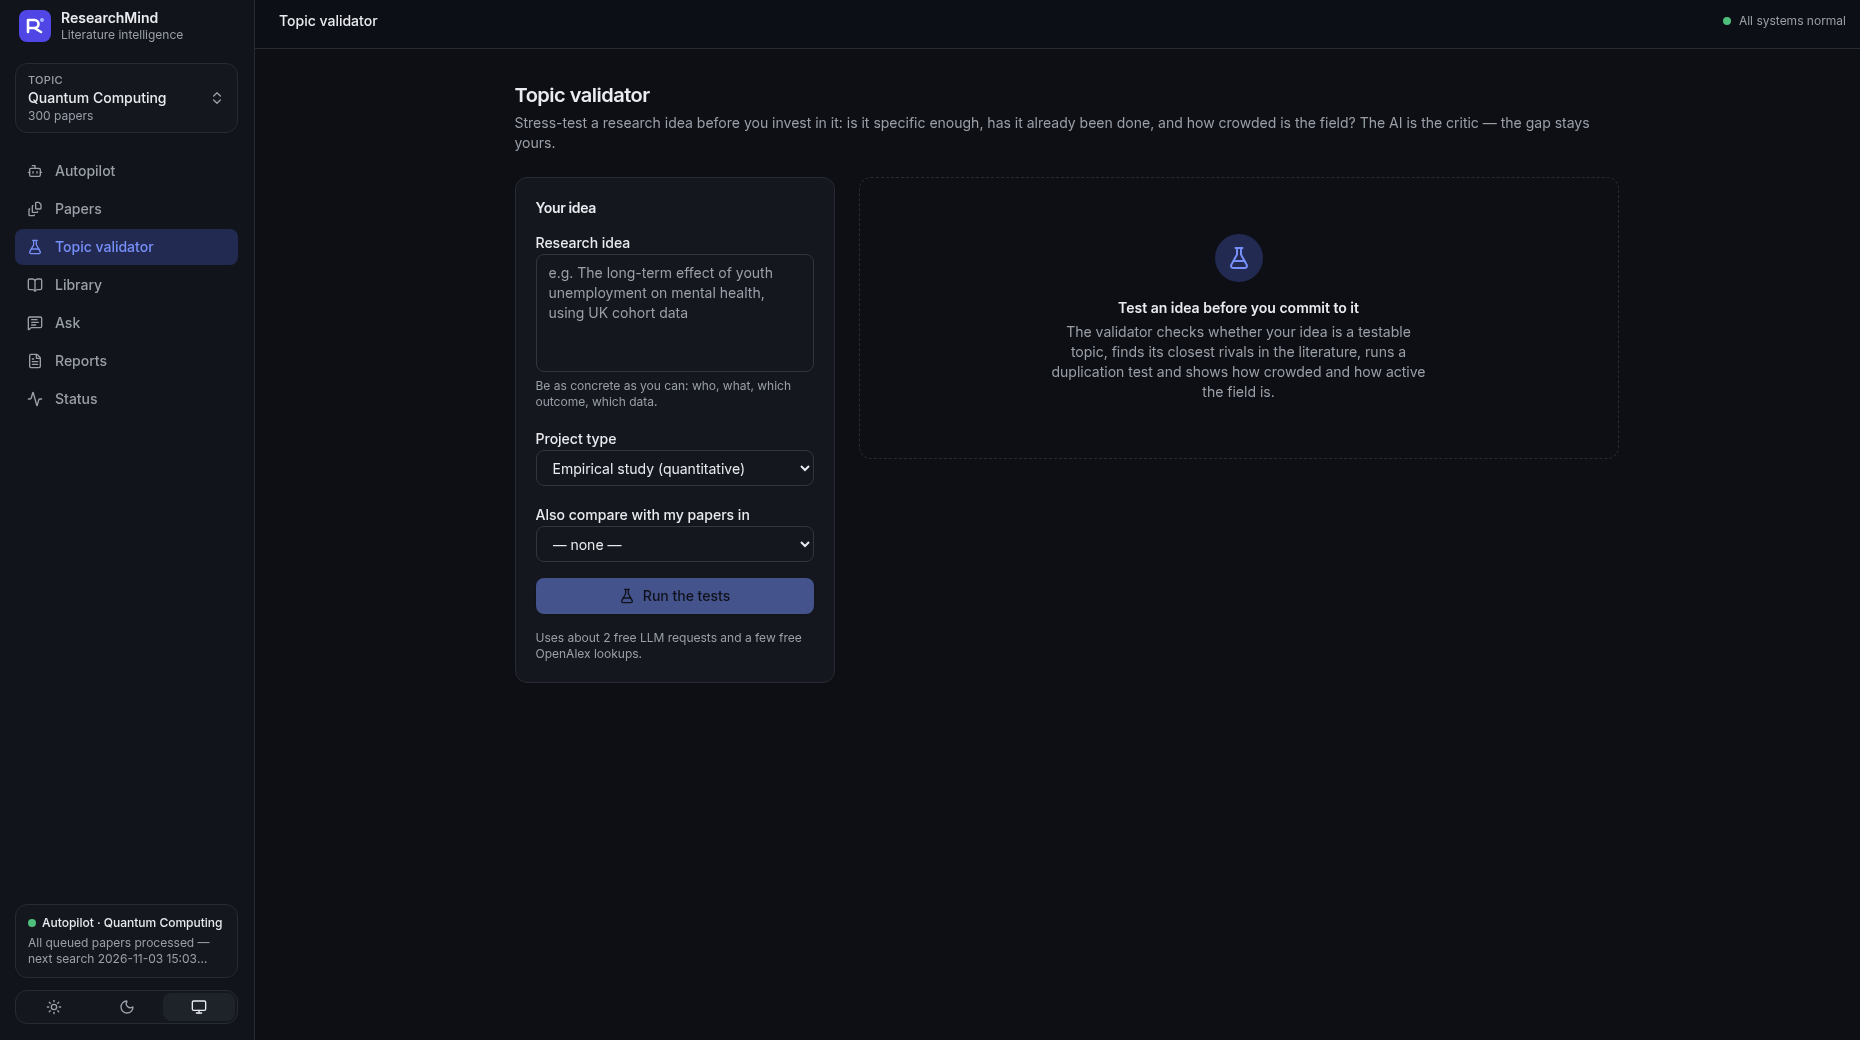
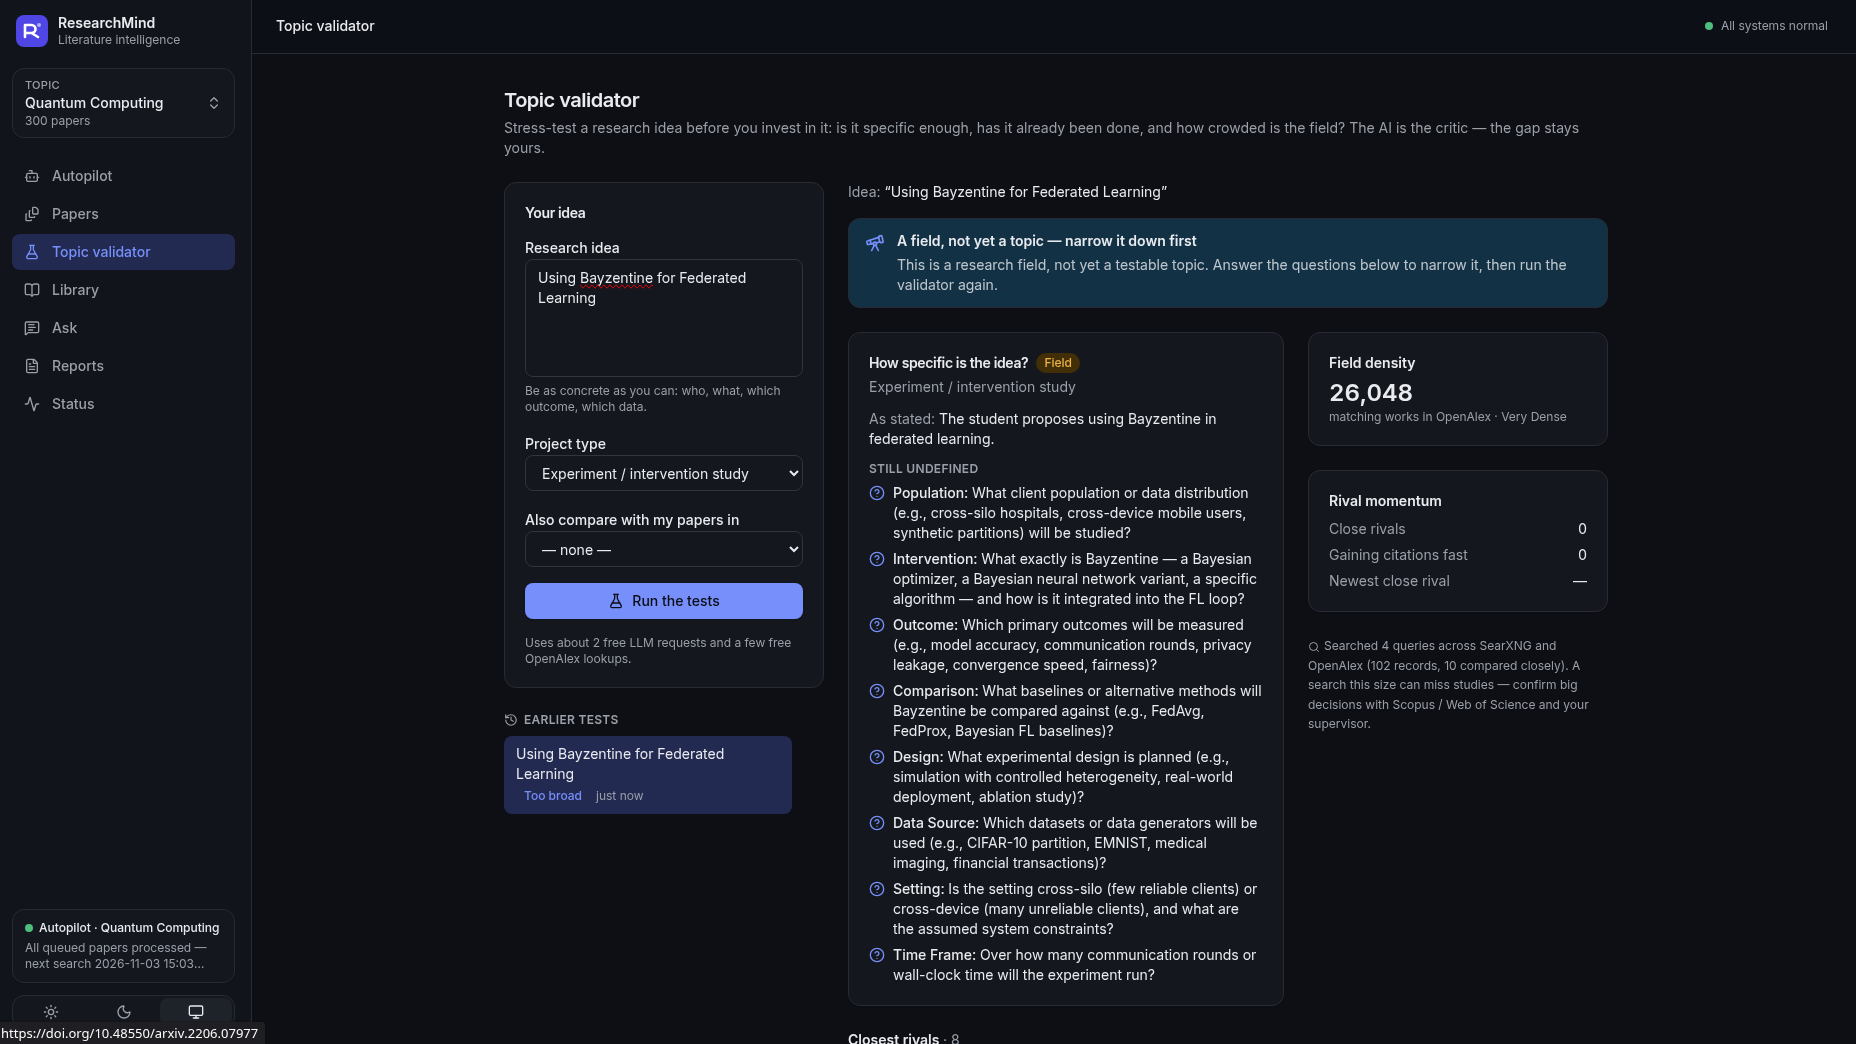
Add research gaps and topic validator screenshots

diff --git a/README.md b/README.md
@@ -31,11 +31,15 @@ React UI (frontend/) ──► FastAPI (src/api) ──► PostgreSQL + pgvector
 
 ![Autopilot](docs/screenshot/autopilot.png)
 
+**Research gaps**: gaps harvested from the papers, each with its evidence. Confidence comes from independent supporting papers, not from the model, and each gap is checked against the wider literature to see whether it is still open or already addressed elsewhere.
+
+![Research gaps](docs/screenshot/gaps.png)
+
 **Papers**: every paper in a topic with its peer-review status, citations, linked gaps and full-text links, plus the papers the screening rejected.
 
 ![Papers](docs/screenshot/library.png)
 
-**Topic validator**: stress-tests a research idea (is it specific, has it been done, how crowded is the field) before you commit to it.
+**Topic validator**: stress-tests a research idea (is it specific, has it been done, how crowded is the field) before you commit to it. When an idea is too broad, it asks the questions that would narrow it down instead of choosing a topic for you.
 
 ![Topic validator](docs/screenshot/topic_validator.png)
 
